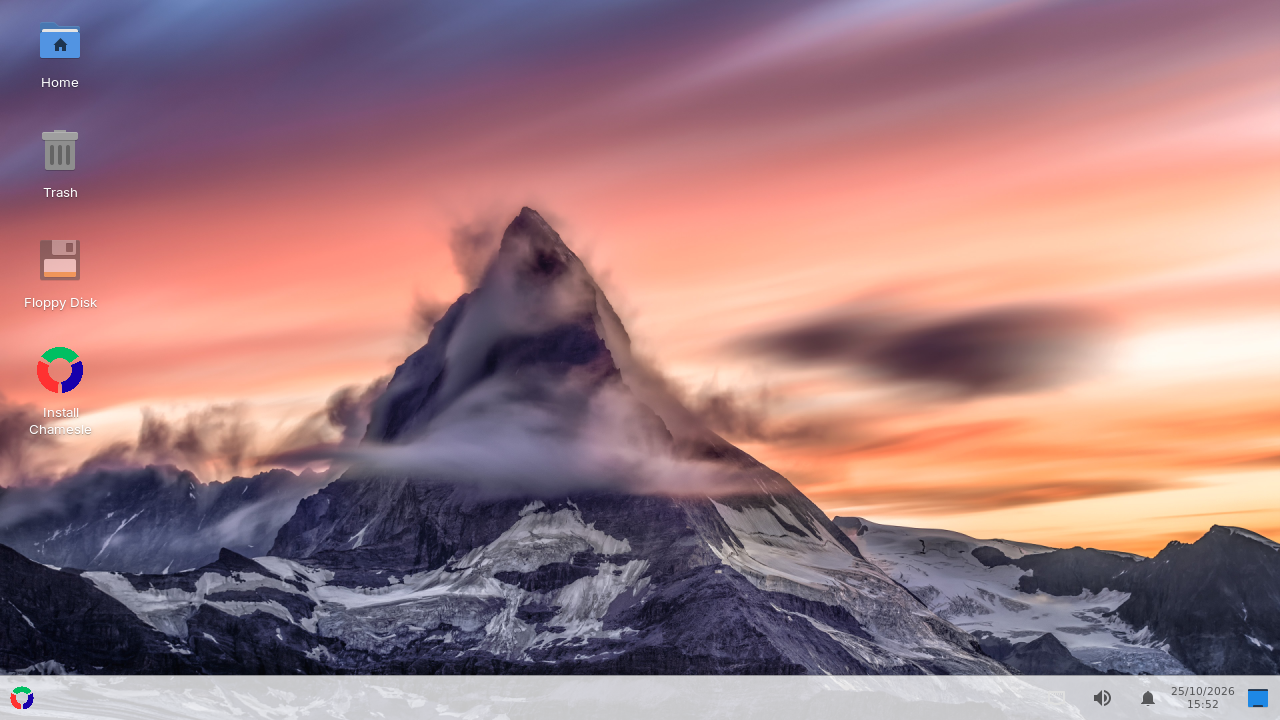
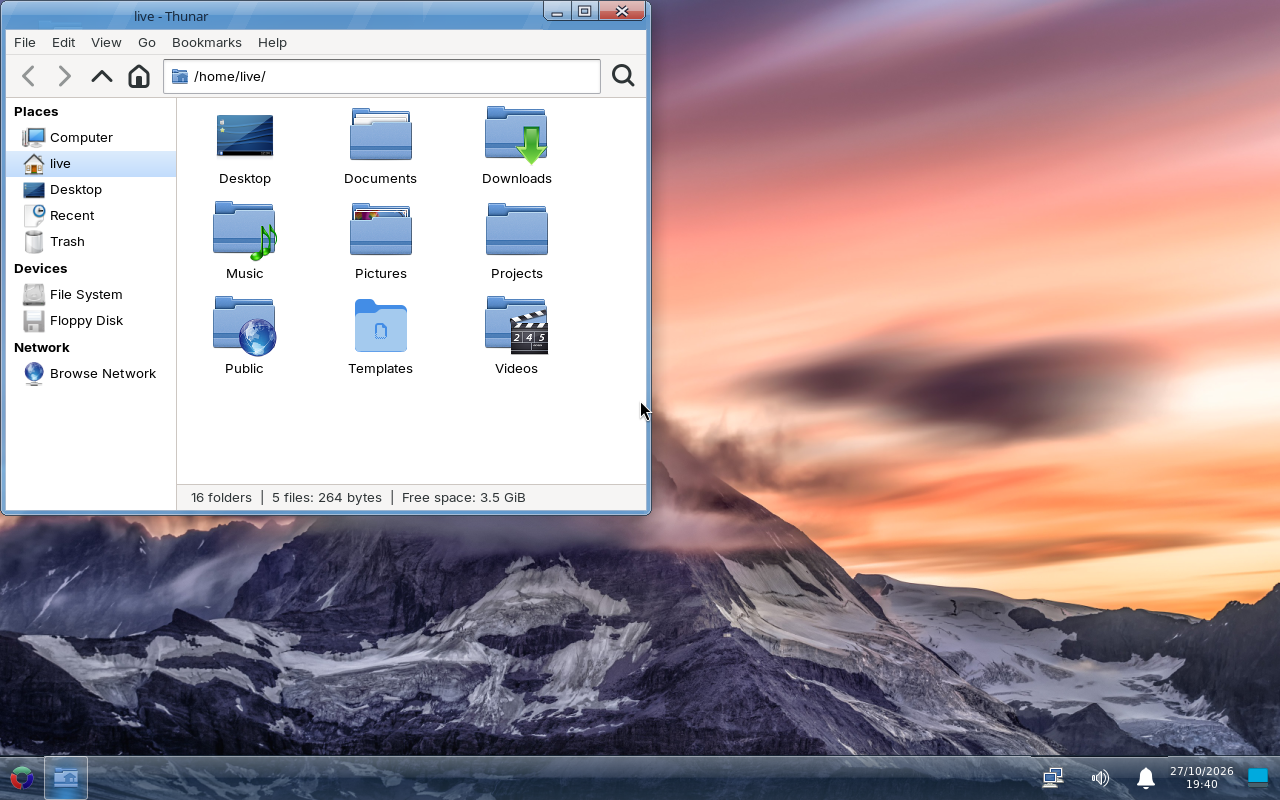
website: 0.7 screenshot of xfce

diff --git a/docs/editions.html b/docs/editions.html
@@ -38,7 +38,7 @@ the look of while you install. You can always add another later, for example <co
 
 <div class="edition">
   <h2>Xfce <span class="tag">out now</span></h2>
-  <img src="img/xfce.png?5" alt="The Xfce edition's desktop" width="1280" height="720" loading="lazy">
+  <img src="img/xfce.png?7" alt="The Xfce edition's desktop" width="1280" height="800" loading="lazy">
   <p>The one to start with. Light on memory, and set up like Windows: one taskbar at the bottom, start menu
   bottom left (or press the Windows key), tray and clock bottom right. Glass window frames and taskbar,
   Oxygen icons and the Inter font.</p>
